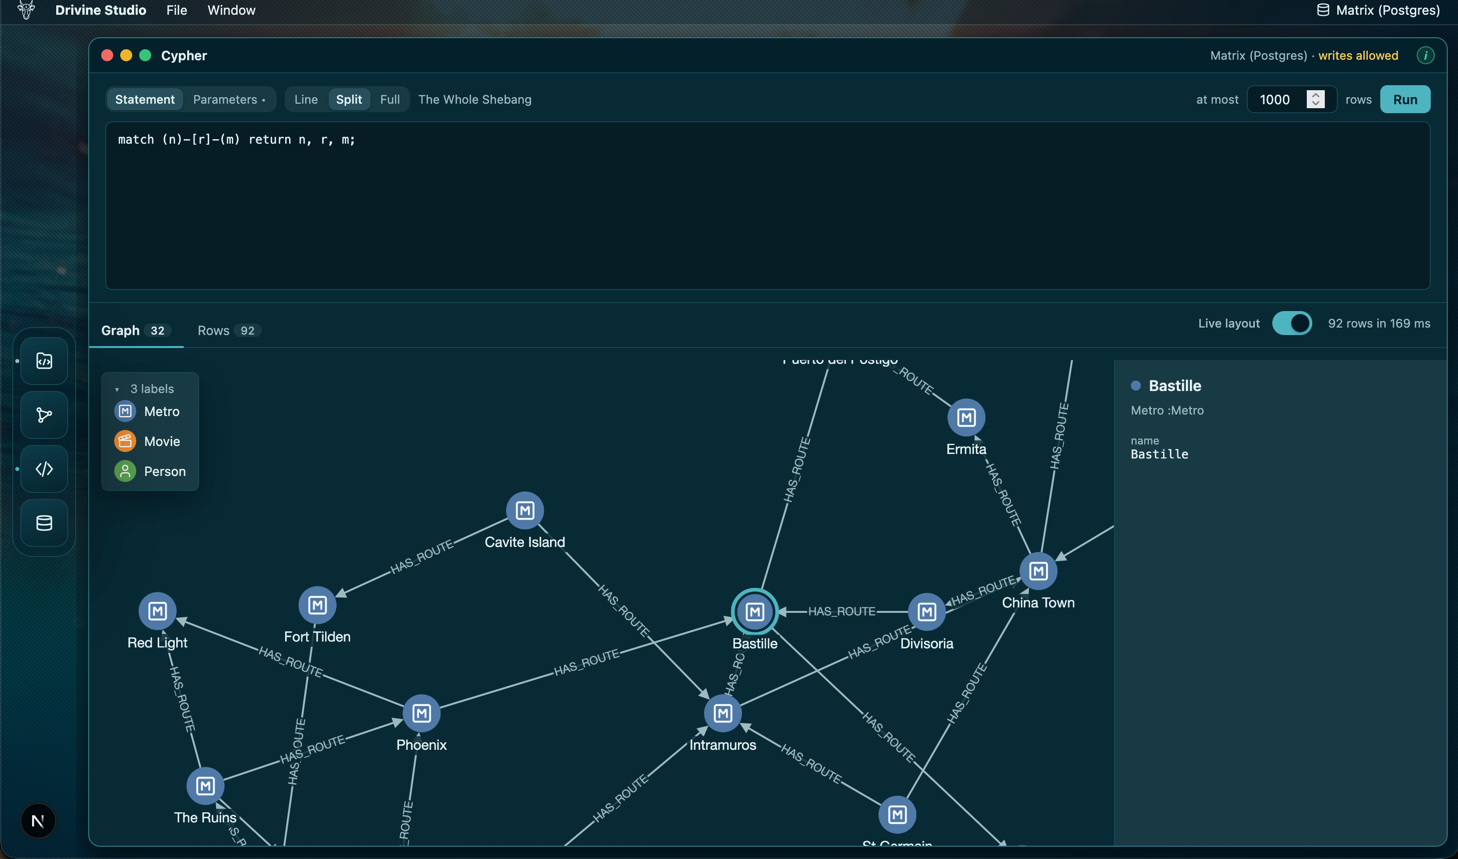
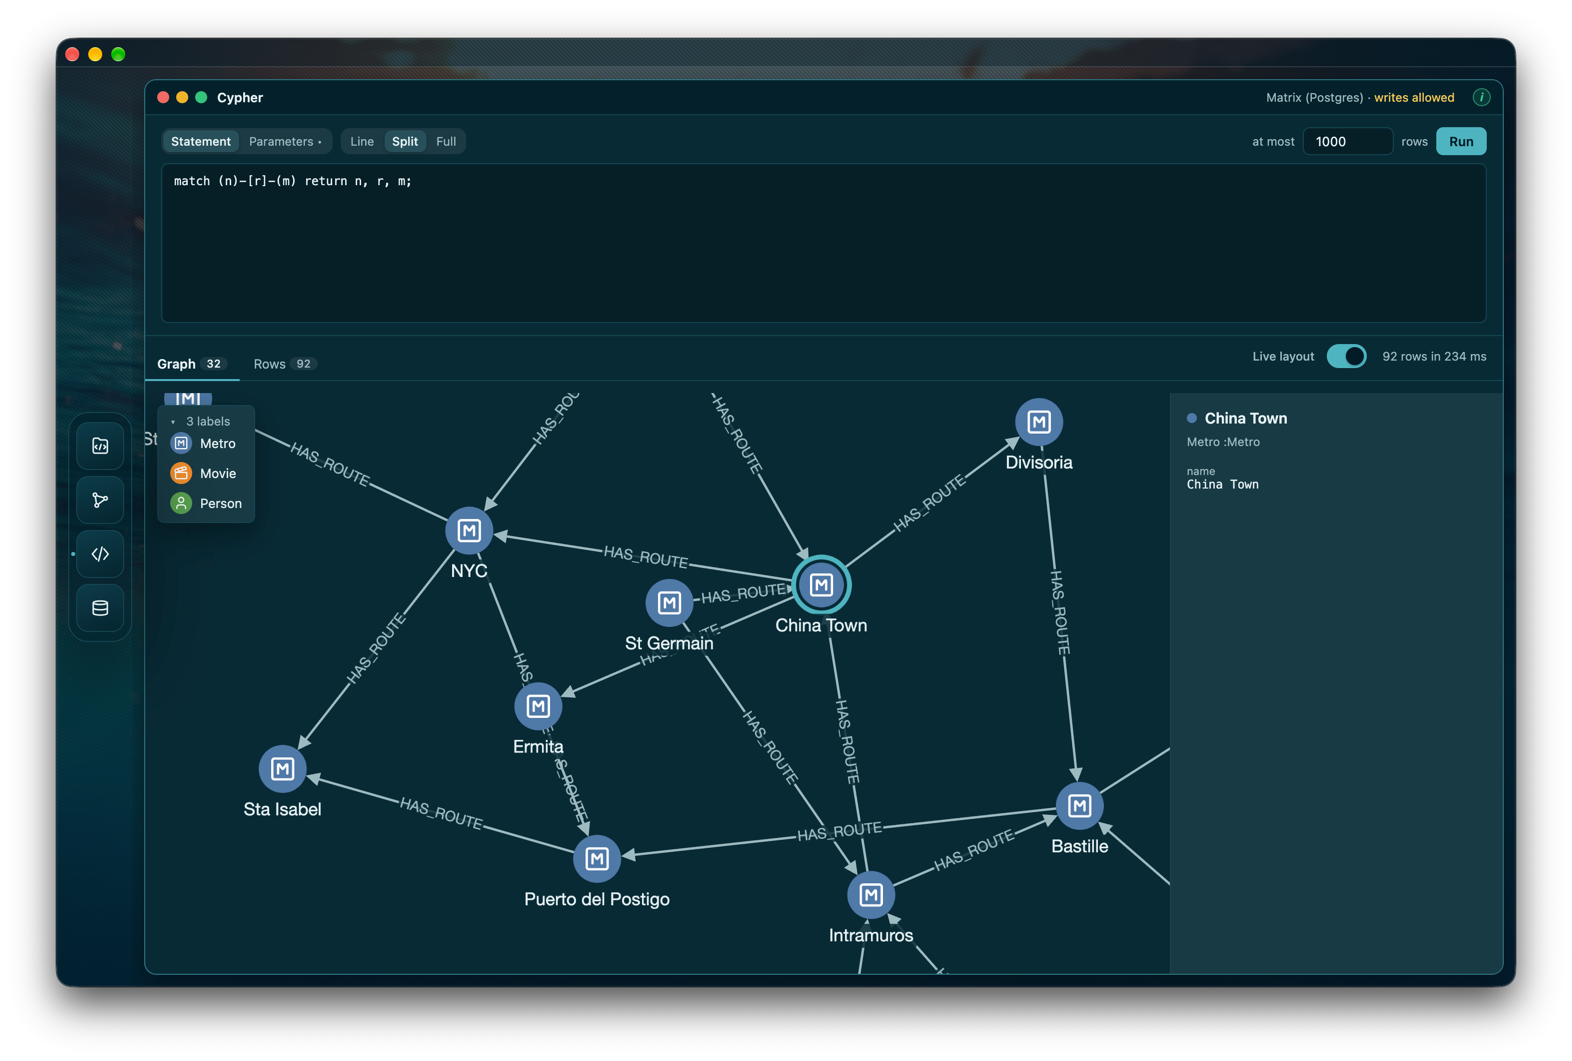
Show the desktop app in the README, a station chosen

diff --git a/README.md b/README.md
@@ -9,7 +9,7 @@ writes: a connection can be set to allow writes from the Cypher window, and the 
 The browser app talks only to this app's own server, which connects to the databases with Drivine (TypeScript). The
 same build runs from `npm start`, as a desktop app in Electron, and is meant to run in a container too.
 
-![Drivine Studio's Cypher window on Postgres: a statement above, and below it a metro network drawn as a graph of stations and their routes, with the station Bastille chosen and its properties shown beside the graph](docs/studio-cypher.png)
+![Drivine Studio's desktop app on a Mac, its Cypher window on Postgres: a statement above, and below it a metro network drawn as a graph of stations and their routes, with the station China Town chosen and its properties shown beside the graph](docs/studio-cypher.png)
 
 *Cypher on Postgres, compiled to SQL by Drivine: the metro network from [Rock ’n’ Roll Traffic Routing, with Neo4j](https://liberation-data.com/saxeburg-series/2018/11/28/rock-n-roll-traffic-routing.html), now on any store. The station chosen is shown beside it.*
 
